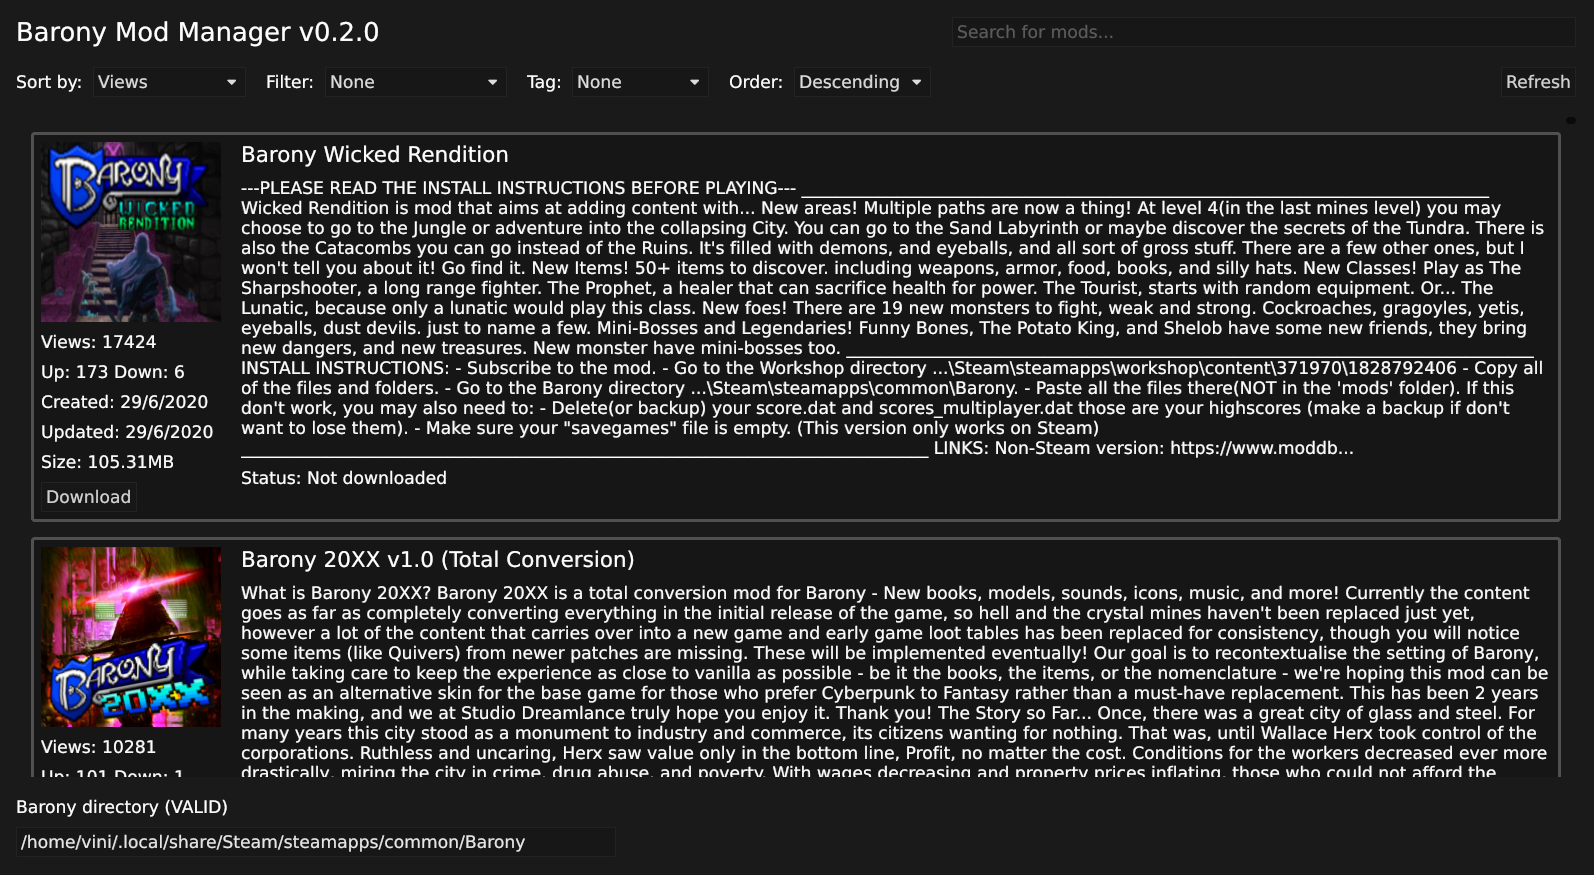
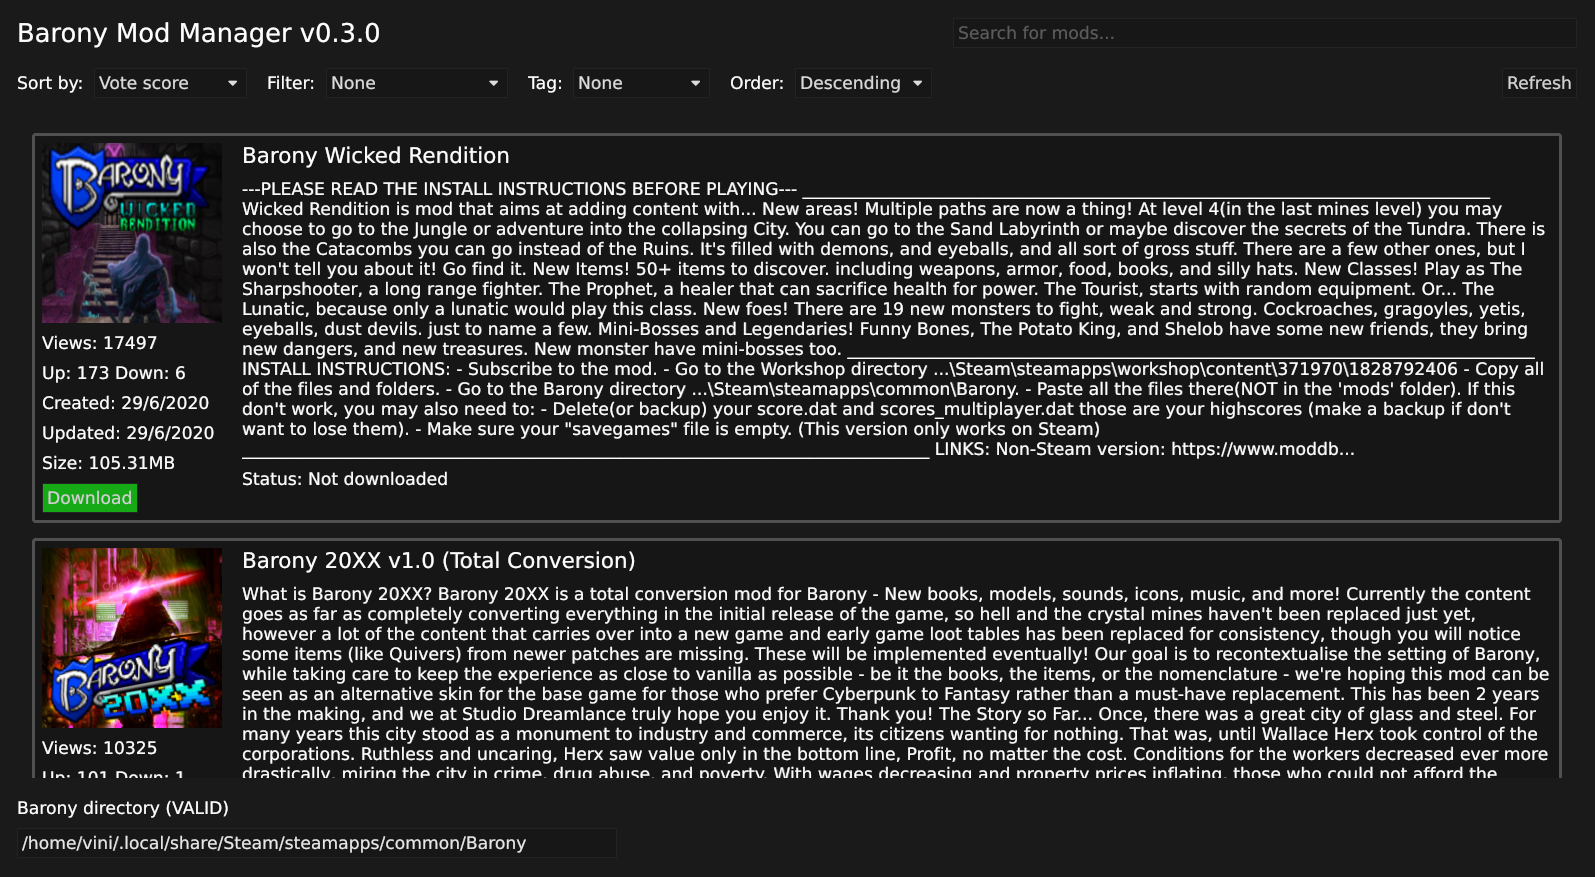
Release v0.3.0

diff --git a/barony-mod-manager/src/main.rs b/barony-mod-manager/src/main.rs
@@ -23,6 +23,8 @@ use iced::{
 use iced_native::Event;
 use reqwest::Client;
 
+static VERSION: &str = "v0.3.0";
+
 fn main() -> iced::Result {
     let icon = build_app_logo().unwrap();
 
@@ -82,7 +84,7 @@ impl Application for BaronyModManager {
     type Flags = ();
 
     fn title(&self) -> String {
-        String::from("Barony Mod Manager v0.2.0")
+        format!("Barony Mod Manager {}", VERSION)
     }
 
     fn should_exit(&self) -> bool {
@@ -331,7 +333,7 @@ impl Application for BaronyModManager {
     // TODO: Clean this view
     fn view(&mut self) -> Element<Self::Message> {
         // ------------------ Header -----------------------
-        let app_name = Text::new("Barony Mod Manager v0.2.0")
+        let app_name = Text::new(format!("Barony Mod Manager {}", VERSION))
             .size(30)
             .width(Length::FillPortion(3))
             .color(iced::Color::WHITE);

diff --git a/README.md b/README.md
@@ -28,11 +28,16 @@ or the Steam, Epic Games, or GOG version of the game.
 ## Building the Project
 Currently there are no built releases, so if one wants to build the project he
 needs:
-- On Windows, download the project and the rust compiler + cargo, then just
-    running `cargo build --release` should build the project.
-- On Linux using Nix, just clone the project and enter the development
-    environment with `nix develop`. There are no packages defined inside the
-    flake yet.
+
+### On Windows
+- [Install Rust](https://doc.rust-lang.org/book/ch01-01-installation.html#installing-rustup-on-windows)
+- Download the project, enter the `barony-mod-manager` folder and run `cargo
+    build --release`.
+
+### On Linux (Nix)
+On Linux using [Nix](https://nixos.org/download.html), just clone the project and enter the development environment
+with `nix develop`. Then you can just run `cargo build --release` and use the
+software. There are no packages defined inside the flake yet.
 
 ## Using the Mod Manager
 After building you can use the search input and the filters to match exactly what

diff --git a/CHANGELOG.md b/CHANGELOG.md
@@ -7,6 +7,8 @@ and this project adheres to [Semantic Versioning](https://semver.org/spec/v2.0.0
 
 ## Unreleased
 
+## [0.3.0] - 2021-10-11
+
 ### Added
 - The app window and executable now have icons.
 - The download buttons are now colored according to their statuses.
@@ -16,7 +18,7 @@ and this project adheres to [Semantic Versioning](https://semver.org/spec/v2.0.0
 - Fix bug where sort order was not changing when user selected a different sort strategy.
 - The app no longer opens an empty console when starting on Windows.
 
-## Changes 
+## Changes
 - The app version is now displayed in the window title and the header, along with its name.
 
 ## [0.2.0] - 2021-10-09
